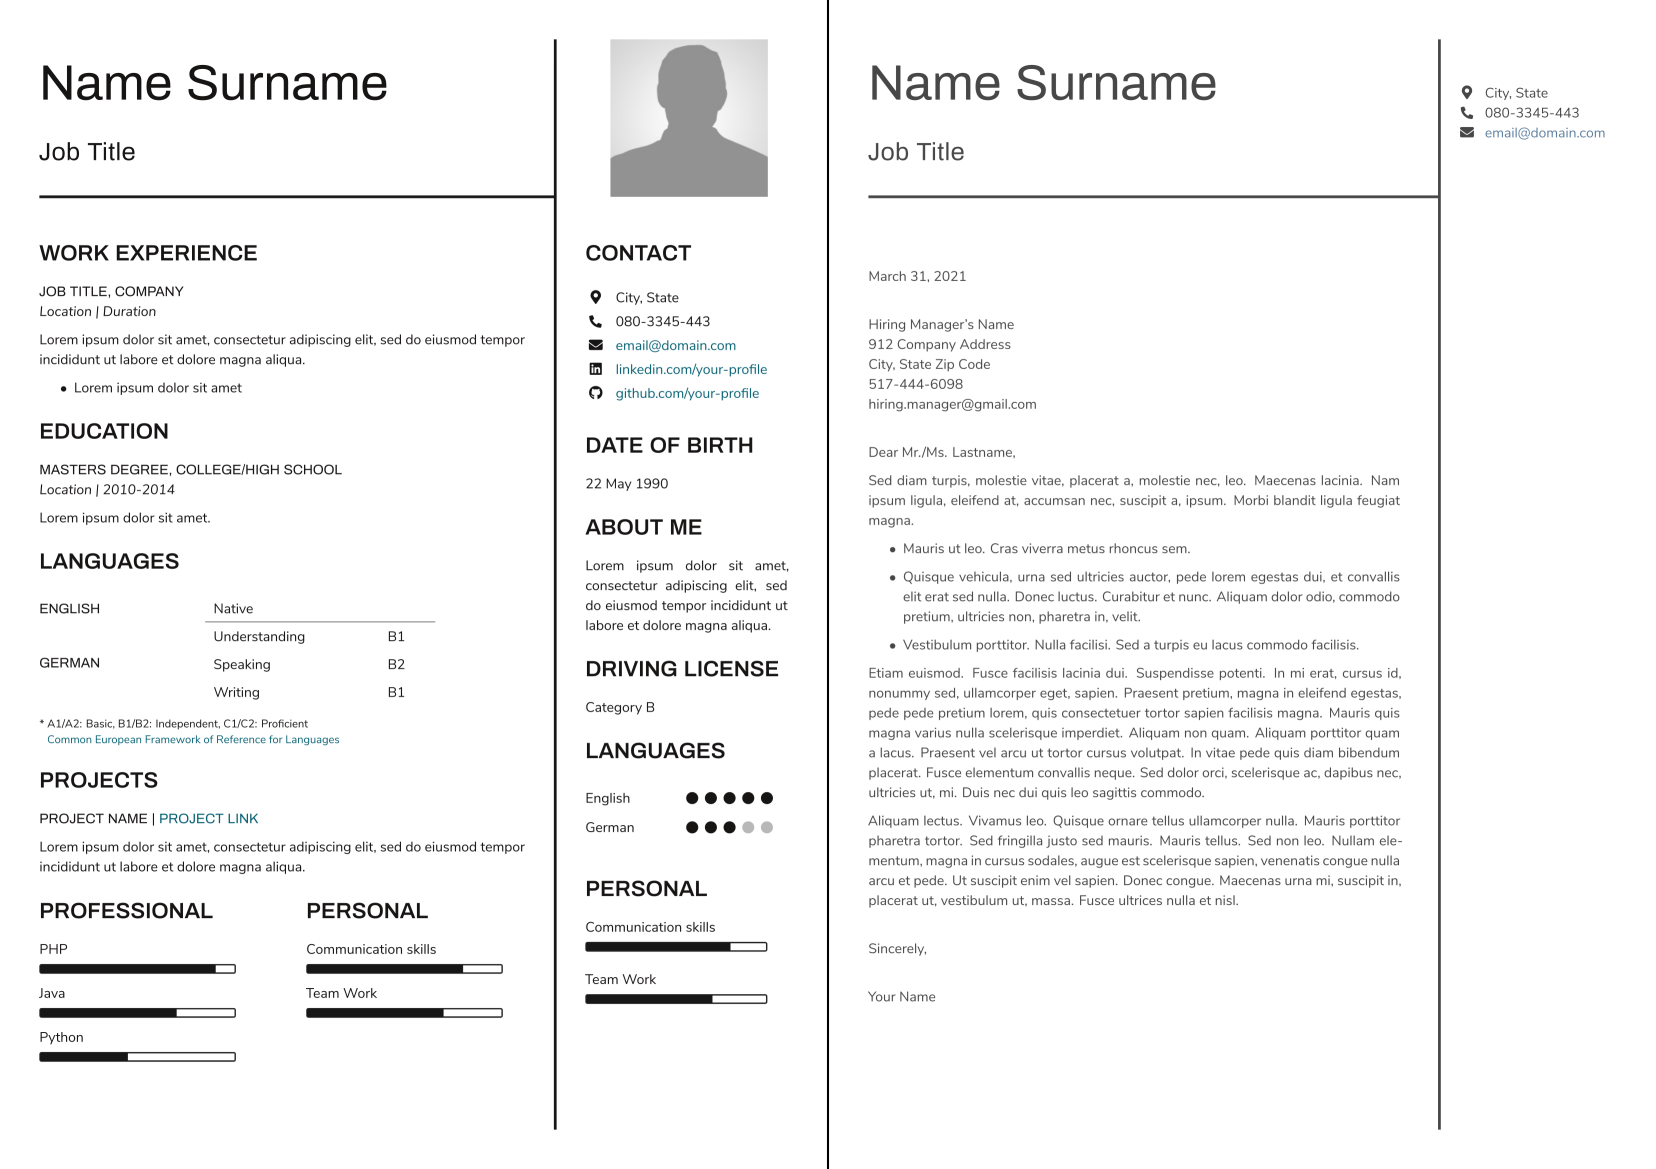
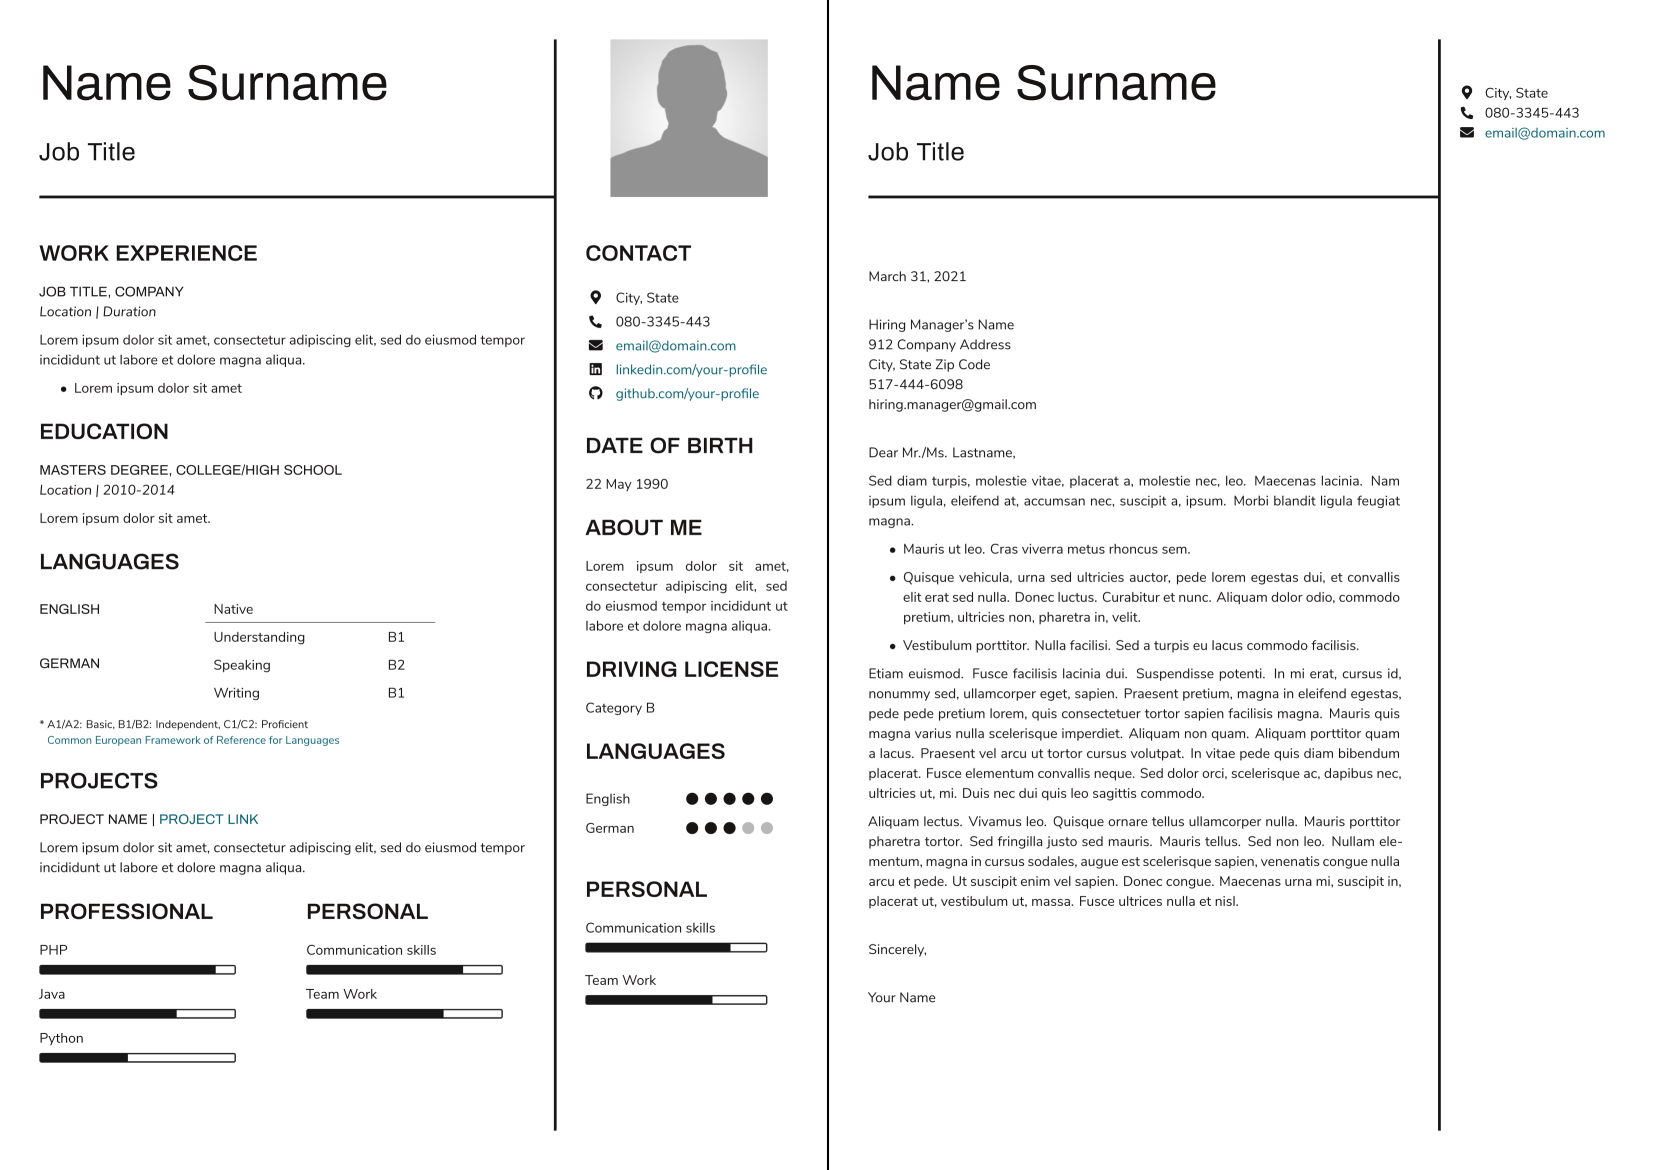
update plain theme

diff --git a/cover-letter-themes/plain.tex b/cover-letter-themes/plain.tex
@@ -1,12 +1,12 @@
 % Colors
 \definecolor{pagebackground}{HTML}{FFFFFF}
-\definecolor{bodytitle}{HTML}{484849}
-\definecolor{bodytext}{HTML}{484849}
-\definecolor{bulletcolor}{HTML}{484849}
-\definecolor{linkcolor}{HTML}{5F80A0}
-\definecolor{linecolor}{HTML}{484849}
-\definecolor{name}{HTML}{484849}
-\definecolor{jobtitle}{HTML}{484849}
+\definecolor{bodytitle}{HTML}{191717}
+\definecolor{bodytext}{HTML}{191717}
+\definecolor{bulletcolor}{HTML}{191717}
+\definecolor{linkcolor}{HTML}{086375}
+\definecolor{linecolor}{HTML}{191717}
+\definecolor{name}{HTML}{191717}
+\definecolor{jobtitle}{HTML}{191717}
 \RequirePackage[pagecolor=pagebackground, nopagecolor=pagebackground]{pagecolor}
 
 % Defining font styles
